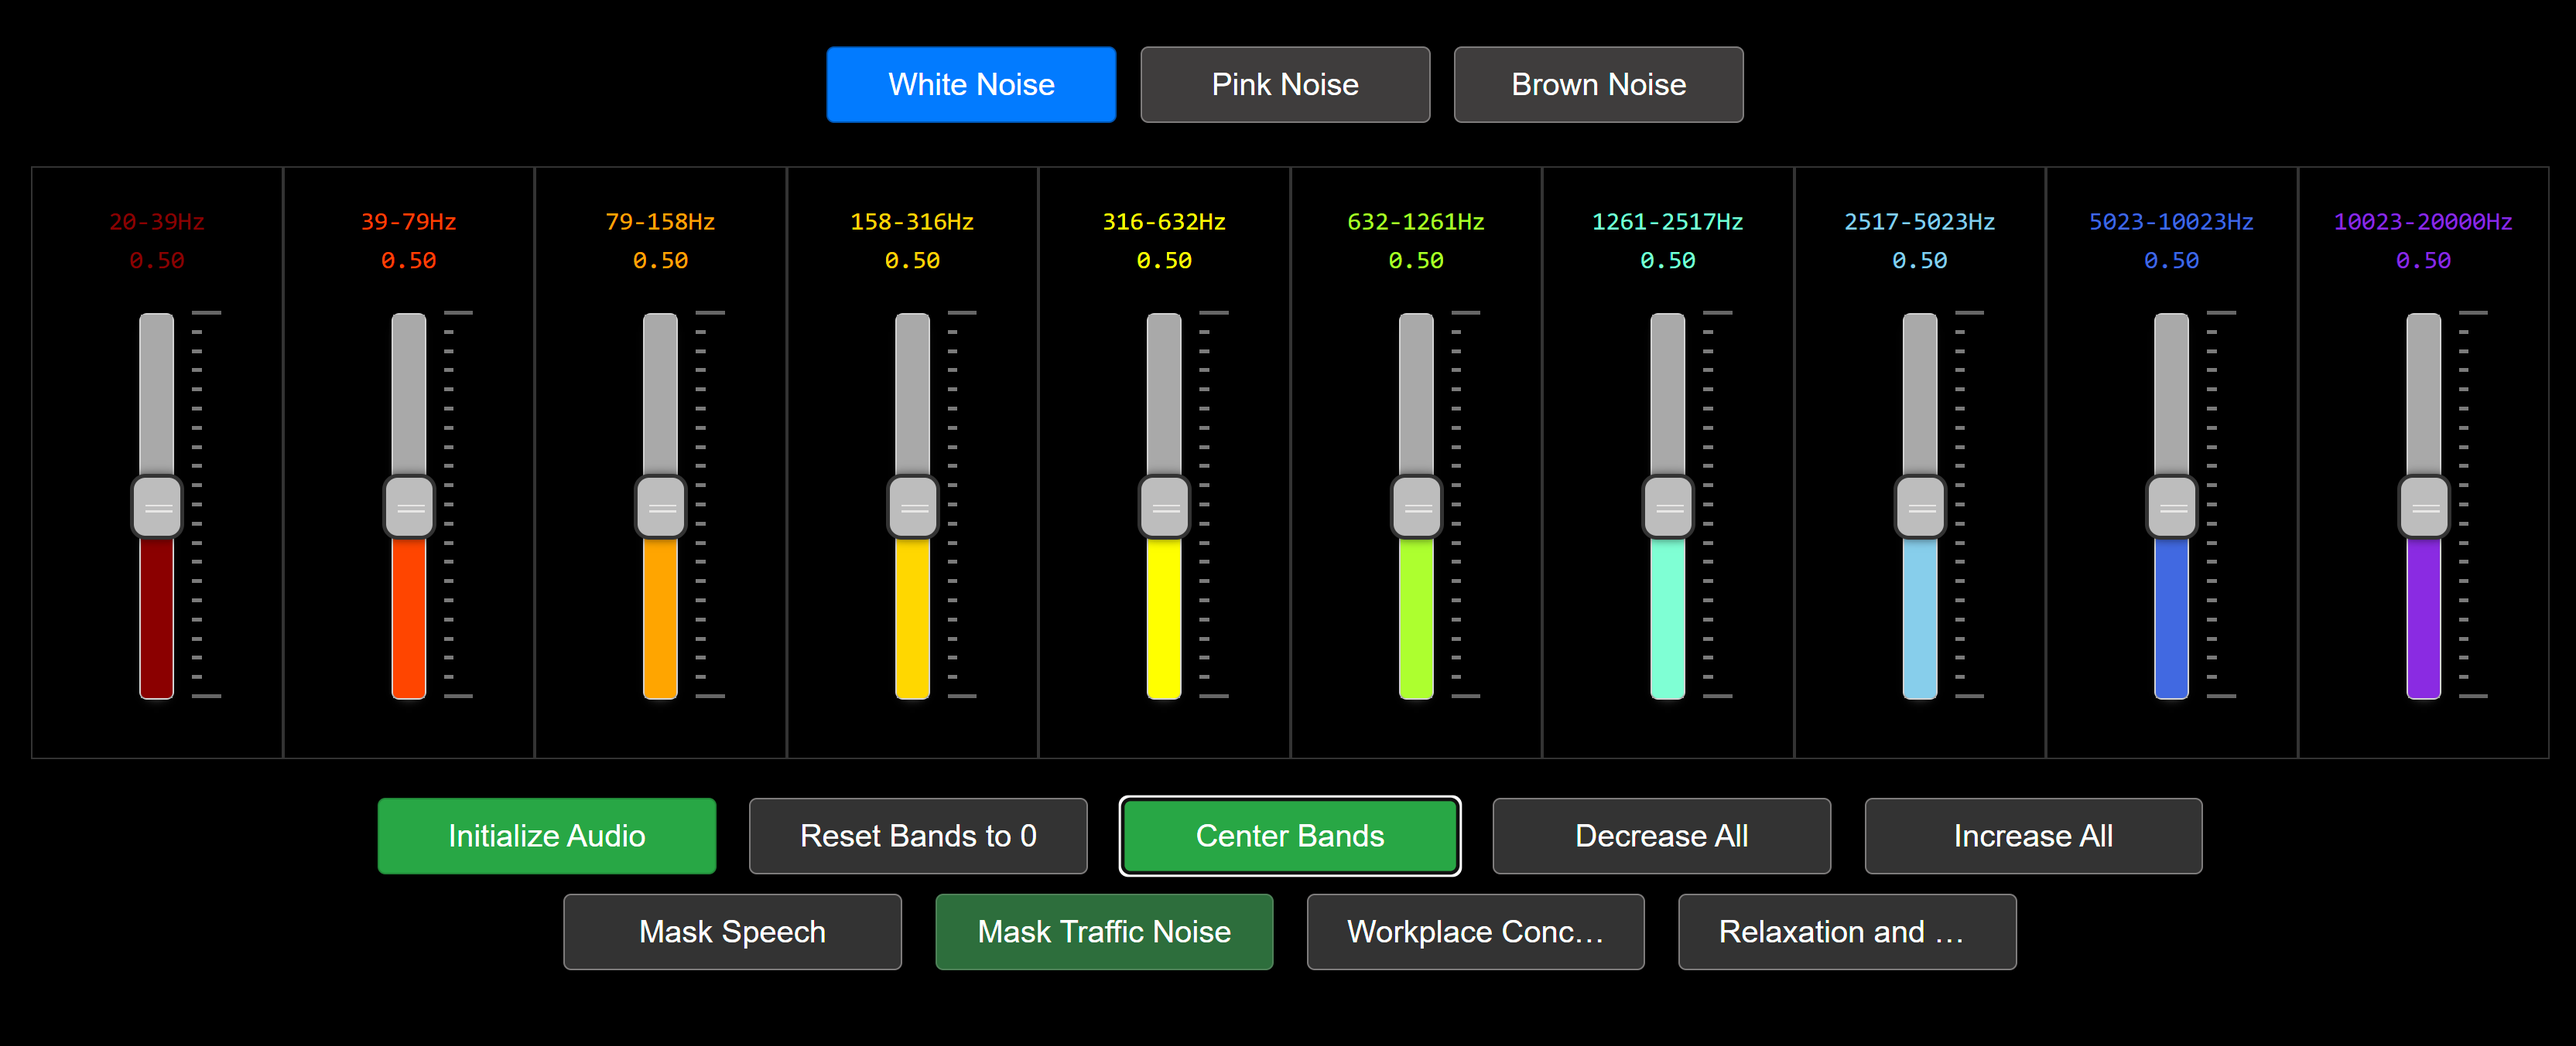
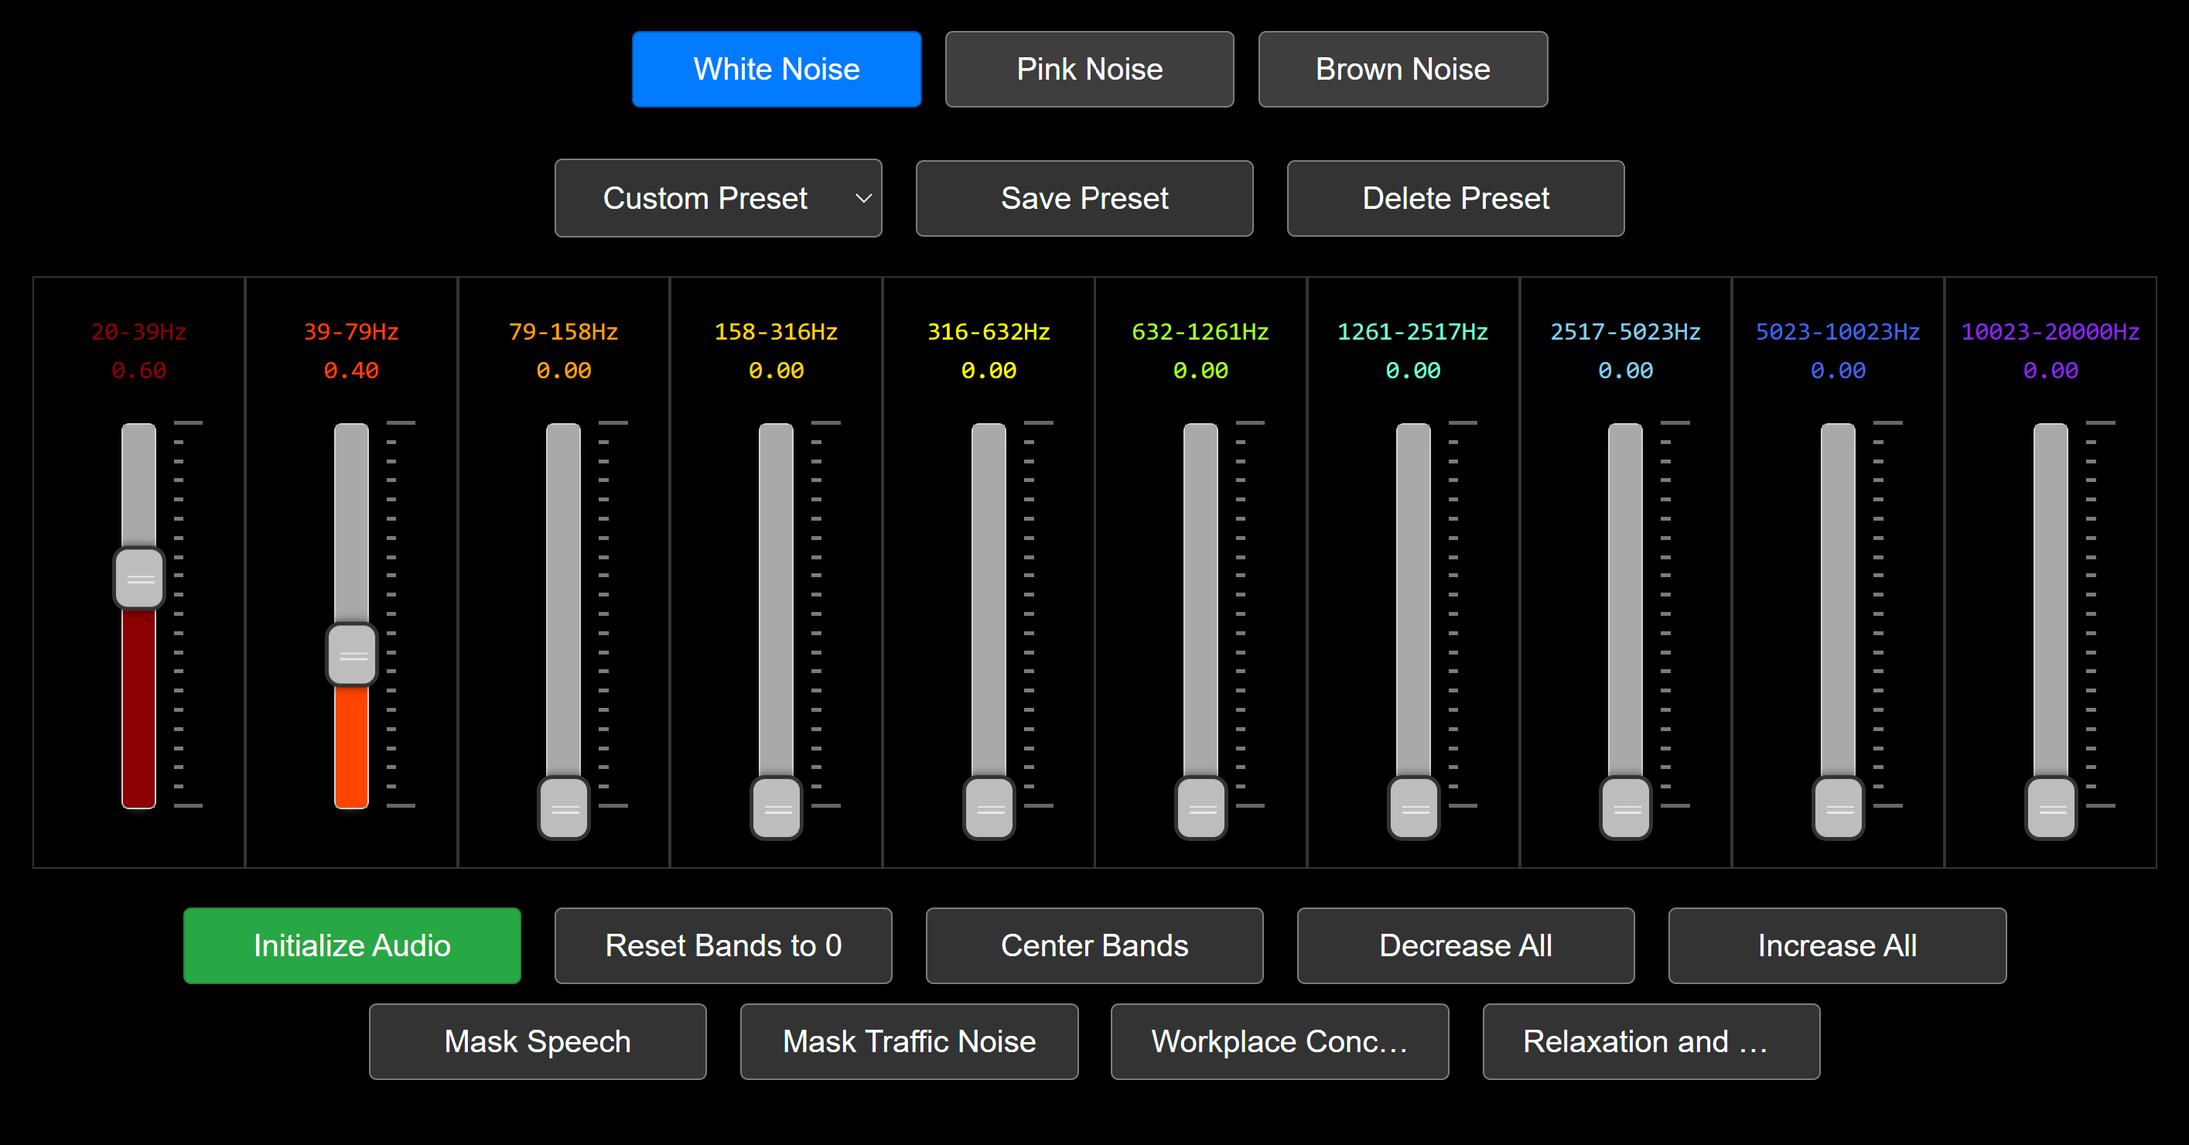
added user preset feature https://chat.openai.com/share/edb5d8c1-561e-46a2-99b8-8b8bf4742631

diff --git a/noise_generator.html b/noise_generator.html
@@ -1,5 +1,6 @@
 <!DOCTYPE html>
 <html>
+
 <head>
     <title>White Noise Generator with Filters and Controls</title>
     <link href="https://cdn.jsdelivr.net/npm/nouislider/distribute/nouislider.min.css" rel="stylesheet">
@@ -12,16 +13,19 @@
             margin: 0;
             padding: 30px;
         }
+
         #controls {
             display: flex;
             justify-content: space-between;
             flex-wrap: nowrap;
             padding-bottom: 15px;
         }
+
         .slider-container {
             height: 200px;
             margin-top: 10px;
         }
+
         .slider-wrapper {
             flex: 1;
             display: flex;
@@ -32,6 +36,7 @@
             min-width: 105px;
             border: 1px solid #333;
         }
+
         .slider-wrapper label {
             align-self: flex-start;
             text-align: center;
@@ -42,14 +47,17 @@
             overflow: hidden;
             text-overflow: ellipsis;
         }
+
         .noUi-base {
             height: 100%;
             width: 100%;
             background-color: darkgrey;
         }
+
         .noUi-marker {
             opacity: 0.6;
         }
+
         .noUi-handle {
             cursor: pointer;
             border: 2px solid #333;
@@ -57,15 +65,18 @@
             background-color: #bdbdbd;
             border-radius: 8px;
         }
+
         .noUi-tooltip {
             padding: 1px;
             left: 100%;
             top: -10px;
             transform: translate(10px, -50%);
         }
+
         .noUi-value {
             display: none;
         }
+
         button {
             font-size: 1em;
             min-width: 175px;
@@ -86,18 +97,23 @@
             margin: 5px 5px;
             border: 1px solid #7f7c7c;
         }
-        button:hover, button:focus {
+
+        button:hover,
+        button:focus {
             background-color: #28a745;
             border-color: #218838;
         }
+
         button:disabled {
             background-color: #555;
             color: #aaa;
             cursor: not-allowed;
         }
+
         .radio-input {
             display: none;
         }
+
         .radio-label {
             display: inline-block;
             background-color: #3f3d3d;
@@ -112,27 +128,44 @@
             text-align: center;
             box-sizing: border-box;
         }
-        .radio-input:checked + .radio-label {
+
+        .radio-input:checked+.radio-label {
             background-color: #007bff;
             color: white;
             border-color: #0056b3;
         }
+
         .radio-label:hover {
             background-color: #727777;
         }
+
         #audioButton {
             background-color: #28a745;
             border-color: #218838;
         }
-        #audioButton:hover, #audioButton:focus {
+
+        #audioButton:hover,
+        #audioButton:focus {
             background-color: #218838;
             border-color: #1e7e34;
         }
+
         .value-indicator {
             margin-bottom: 10px;
         }
+
+        #presetSelector {
+            font-size: 1em;
+            padding: 10px 20px;
+            border: 1px solid #7f7c7c;
+            border-radius: 4px;
+            background-color: #333;
+            color: #fff;
+            margin-right: 5px;
+        }
     </style>
 </head>
+
 <body>
     <div>
         <input type="radio" id="whiteNoise" name="noiseType" value="white" class="radio-input" checked>
@@ -141,7 +174,16 @@
         <label for="pinkNoise" class="radio-label">Pink Noise</label>
         <input type="radio" id="brownNoise" name="noiseType" value="brown" class="radio-input">
         <label for="brownNoise" class="radio-label">Brown Noise</label>
+    </div> <br>
+    <div>
+        <select id="presetSelector">
+            <option value="custom">Custom Preset</option>
+            <!-- Preset options will be added dynamically -->
+        </select>
+        <button onclick="savePreset()">Save Preset</button>
+        <button onclick="deletePreset()">Delete Preset</button>
     </div>
+
     <br>
     <div id="controls"></div>
     <button id="audioButton" onclick="toggleAudio()">Initialize Audio</button>
@@ -194,6 +236,7 @@
             resetAllBandsToZero();
             setSliderValue(4, 0.8);
             setSliderValue(5, 0.8);
+            resetPresetSelector();
             saveSettings();
         }
 
@@ -201,6 +244,7 @@
             resetAllBandsToZero();
             setSliderValue(0, 0.8);
             setSliderValue(3, 0.6);
+            resetPresetSelector();
             saveSettings();
         }
 
@@ -208,6 +252,7 @@
             resetAllBandsToZero();
             setSliderValue(2, 0.7);
             setSliderValue(4, 0.7);
+            resetPresetSelector();
             saveSettings();
         }
 
@@ -215,6 +260,7 @@
             resetAllBandsToZero();
             setSliderValue(0, 0.6);
             setSliderValue(1, 0.4);
+            resetPresetSelector();
             saveSettings();
         }
 
@@ -223,6 +269,7 @@
             frequencyBands.forEach(function (_, index) {
                 setSliderValue(index, value);
             });
+            resetPresetSelector();
             saveSettings();
         }
 
@@ -231,6 +278,7 @@
                 var currentValue = gainNodes[index] ? gainNodes[index].gain.value : 0.5;
                 setSliderValue(index, Math.max(0, Math.min(1, currentValue + delta)));
             });
+            resetPresetSelector();
             saveSettings();
         }
 
@@ -243,7 +291,10 @@
                 }
             }
         }
-
+        // Helper function to reset preset selector
+        function resetPresetSelector() {
+            document.getElementById('presetSelector').value = 'custom';
+        }
         // Function to handle audio processing
         function playNoise() {
             if (!noiseProcessor || noiseProcessor.context.state === 'closed') {
@@ -411,6 +462,52 @@
             return filter;
         }
 
+        // New functions for preset management
+        function savePreset() {
+            var presetName = prompt("Enter a name for the new preset:");
+            if (presetName) {
+                var presets = JSON.parse(localStorage.getItem('presets')) || {};
+                presets[presetName] = settings;
+                localStorage.setItem('presets', JSON.stringify(presets));
+                loadPresetOptions();
+            }
+        }
+
+        function deletePreset() {
+            var presetName = document.getElementById('presetSelector').value;
+            if (presetName !== 'custom') {
+                var presets = JSON.parse(localStorage.getItem('presets')) || {};
+                delete presets[presetName];
+                localStorage.setItem('presets', JSON.stringify(presets));
+                loadPresetOptions();
+            }
+        }
+
+        function loadPresetOptions() {
+            var presetSelector = document.getElementById('presetSelector');
+            presetSelector.innerHTML = '<option value="custom">Custom Preset</option>';
+            var presets = JSON.parse(localStorage.getItem('presets')) || {};
+            for (var presetName in presets) {
+                var option = document.createElement('option');
+                option.value = presetName;
+                option.textContent = presetName;
+                presetSelector.appendChild(option);
+            }
+        }
+
+        document.getElementById('presetSelector').addEventListener('change', function () {
+            var presetName = this.value;
+            var presets = JSON.parse(localStorage.getItem('presets')) || {};
+            if (presets[presetName]) {
+                settings = presets[presetName];
+                loadSettings();
+            }
+        });
+
+        // Initialization of presets on page load
+        document.addEventListener('DOMContentLoaded', function () {
+            loadPresetOptions();
+        });
         // Slider setup for frequency bands
         frequencyBands.forEach(function (band, index) {
             var sliderWrapper = document.createElement('div');
@@ -470,13 +567,17 @@
                 if (connectBar) {
                     connectBar.style.backgroundColor = colors[index];
                 }
+
             });
 
             container.noUiSlider.on('change', function () {
+                // Reset the preset selector to 'Custom Preset' when a slider value changes
+                resetPresetSelector();
                 saveSettings();
             });
         });
 
     </script>
 </body>
+
 </html>

diff --git a/README.md b/README.md
@@ -5,7 +5,7 @@
 
 ## Overview
 
-The White Noise Generator is a versatile web application designed to produce white, pink, and brown noise. It utilizes the Web Audio API for advanced audio processing and is compatible with 7.1 surround sound systems. This application is user-friendly, with a focus on customizable audio experiences and seamless user interaction.  Inspired by <https://mynoise.net/NoiseMachines/whiteNoiseGenerator.php>
+The White Noise Generator is a versatile web application designed to produce white, pink, and brown noise. It utilizes the Web Audio API for advanced audio processing and is compatible with 7.1 surround sound systems. This application is user-friendly, with a focus on customizable audio experiences and seamless user interaction. Inspired by [mynoise.net](https://mynoise.net/NoiseMachines/whiteNoiseGenerator.php).
 
 ## Features
 
@@ -14,7 +14,8 @@ The White Noise Generator is a versatile web application designed to produce whi
 - Adjustable frequency bands for detailed sound customization.
 - Smooth fade-in and fade-out effects for a pleasant audio experience.
 - User-defined presets for specific needs such as speech masking, traffic noise reduction, workplace concentration, and relaxation.
-- Ability to save and load custom settings for repeated use.
+- Ability to save, load, and delete custom settings for repeated use.
+- Enhanced user control with the addition of a feature to save and manage personal presets.
 
 ## Usage Instructions
 
@@ -22,8 +23,10 @@ The White Noise Generator is a versatile web application designed to produce whi
 2. Choose your desired noise type (white, pink, or brown) using the radio buttons.
 3. Customize the sound using the frequency band sliders.
 4. Start the noise generation by clicking "Initialize Audio."
-5. Utilize the preset buttons for specific scenarios or fine-tune your settings.
-6. Stop the noise generation smoothly by clicking "Stop Audio."
+5. Utilize the preset buttons for specific scenarios or create your own custom settings.
+6. Save your custom settings as presets for future use.
+7. Load or delete saved presets as needed.
+8. Stop the noise generation smoothly by clicking "Stop Audio."
 
 ## Technical Details
 
@@ -32,6 +35,7 @@ The White Noise Generator is a versatile web application designed to produce whi
 - Features a script processor node for dynamic noise generation.
 - Gain nodes for precise control of different frequency bands.
 - NoUiSlider for interactive and responsive sliders.
+- Local Storage for saving and retrieving user-defined presets.
 
 ### Core Functions
 
@@ -40,6 +44,7 @@ The White Noise Generator is a versatile web application designed to produce whi
 - `generateWhiteNoise`, `generatePinkNoise`, `generateBrownNoise`: Functions for different noise types.
 - `stopNoise`: Fades out and stops noise generation.
 - `toggleAudio`: Toggles the state of audio playback.
+- `savePreset`, `loadPresetOptions`, `deletePreset`: Functions for managing user-defined presets.
 
 ### Interaction Flow of the White Noise Generator Application
 
@@ -74,7 +79,6 @@ sequenceDiagram
     WebAudioAPI-->>NoiseProcessor: Stop Noise Generation
     NoiseProcessor->>AudioContext: Disconnect and Cleanup
     AudioContext-->>UI: Audio Stopped
-
 ```
 
 ## Browser Compatibility
